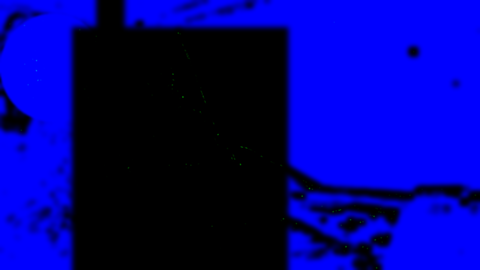
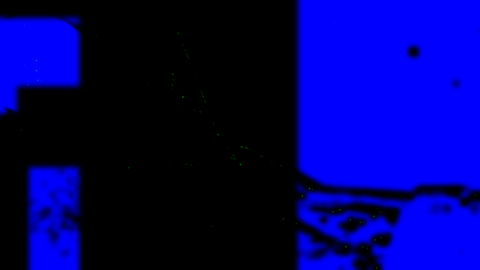
Živé obrázky: Lebec – vír jen v okně, sedadlo pevné; Lorris – radar jen na displeji
Claude-Session: https://claude.ai/code/session_019nmCp42rAmbc4M4RKrxxCM

Changed region(s): [[0.0, 0.0, 0.2188, 1.0], [0.25, 0.0, 0.6562, 1.0]]

diff --git a/assets/zive/seznam.js b/assets/zive/seznam.js
@@ -1,2 +1,2 @@
 /* Vytvořeno nastroje/zive_masky.py – neupravovat ručně. */
-window.ZIVE_SEZNAM={"/assets/kapitoly/dite-z-marsu.webp":{"s":"dite-z-marsu","m":"/assets/zive/dite-z-marsu-maska.png"},"/assets/kapitoly/goodman.webp":{"s":"goodman","m":"/assets/zive/goodman-maska.png"},"/assets/kapitoly/pad-calibanu.webp":{"s":"pad-calibanu","m":"/assets/zive/pad-calibanu-maska.png"},"/assets/kapitoly/ztracena-letka.webp":{"s":"ztracena-letka","m":"/assets/zive/ztracena-letka-maska.png"},"/assets/osoby/abeni-okon.webp":{"s":"osoba","m":"/assets/zive/osoby/abeni-okon.png","k":{"kam":[0.27,0.2,0.07,34],"ef":[[4,0.72,0.12,0.84,0.62,1.4,0.3,0,1.0,0.75,0.4],[2,0.3,0.0,1.0,0.35,0.004,0.0,0.004,0,0,0],[3,0.55,0.73,0.88,0.84,0.004,0,0,0,0,0]],"cast":[["para",0.4,0.33,0.8],["para",0.59,0.45,0.6],["para",0.69,0.45,0.6],["para",0.94,0.43,0.7],["prach",0.4,0.1,1,0.8,20]]}},"/assets/osoby/adelaide-lorris.webp":{"s":"osoba","m":"/assets/zive/osoby/adelaide-lorris.png","k":{"kam":[0.3,0.25,0.08,32],"ef":[[6,0.63,0.42,0.9,0.8,0.5,0,0,0.55,0.75,1.0],[4,0.8,0.13,0.9,0.27,0.6,0.45,0,1.0,0.95,0.85],[4,0.0,0.1,0.06,0.2,1.4,0.8,1,1.0,0.15,0.1]],"cast":[]}},"/assets/osoby/ai-se-choan.webp":{"s":"osoba","m":"/assets/zive/osoby/ai-se-choan.png","k":{"kam":[0.3,0.3,0.08,34],"ef":[[1,0.68,0.02,1.0,0.6,0.35,0,0,0,0,0],[4,0.8,0.38,0.92,0.52,0.8,0.35,0,1.0,0.95,0.85],[4,0.65,0.7,1.0,1.0,1.3,0.12,0,1.0,0.75,0.4]],"cast":[["prach",0.4,0.1,1,0.9,25]]}},"/assets/osoby/antoine-lebec.webp":{"s":"osoba","m":"/assets/zive/osoby/antoine-lebec.png","k":{"kam":[0.33,0.3,0.08,34],"ef":[[1,0.0,0.05,0.22,0.45,0.4,0,0,0,0,0],[4,0.82,0.13,0.9,0.24,0.6,0.45,0,1.0,0.75,0.4]],"cast":[["prach",0.4,0.1,1,0.7,15]]}},"/assets/osoby/ashley-ghan.webp":{"s":"osoba","m":"/assets/zive/osoby/ashley-ghan.png","k":{"kam":[0.35,0.2,0.07,34],"ef":[[4,0.0,0.28,0.09,0.44,3.0,0.3,0,1.0,0.75,0.4],[2,0.75,0.07,0.93,0.4,0.002,0.0,0.003,0,0,0]],"cast":[["prach",0.0,0.2,0.7,0.9,35]]}},"/assets/osoby/astrid-messer-vii.webp":{"s":"osoba","m":"/assets/zive/osoby/astrid-messer-vii.png","k":{"kam":[0.35,0.2,0.07,32],"ef":[[4,0.45,0.0,1.0,0.55,0.8,0.25,0,1.0,0.75,0.4],[4,0.44,0.5,0.56,0.62,3.5,0.3,0,1.0,0.75,0.4],[4,0.6,0.55,0.7,0.66,3.5,0.3,0,1.0,0.75,0.4]],"cast":[["jiskry",0.5,0.53],["jiskry",0.65,0.58]]}},"/assets/osoby/chule-se-rua.webp":{"s":"osoba","m":"/assets/zive/osoby/chule-se-rua.png","k":{"kam":[0.3,0.25,0.07,36],"ef":[[3,0.55,0.1,1.0,0.5,0.004,0,0,0,0,0],[2,0.0,0.0,0.3,0.55,0.0,0.0,0.004,0,0,0],[5,0.4,0.0,1.0,0.6,0.12,0.4,0,0,0,0]],"cast":[["lupeny",0.0,-0.05,1,0.3,26],["prach",0.3,0.1,1,0.8,20]]}},"/assets/osoby/corath-thal.webp":{"s":"osoba","m":"/assets/zive/osoby/corath-thal.png","k":{"kam":[0.3,0.3,0.08,34],"ef":[[2,0.48,0.32,1.0,0.8,0.006,0.0,0.006,0,0,0],[4,0.85,0.25,0.98,0.42,0.6,0.35,0,1.0,0.95,0.85],[4,0.48,0.62,0.62,0.72,2.5,0.25,0,1.0,0.75,0.4]],"cast":[["lode",0.35,0.2,1.05,0.08,6,0.9,1],["lode",1.05,0.55,0.5,0.45,4,0.7,1]]}},"/assets/osoby/corbyn-salehi.webp":{"s":"osoba","m":"/assets/zive/osoby/corbyn-salehi.png","k":{"kam":[0.25,0.25,0.08,32],"ef":[[2,0.35,0.12,1.0,0.98,0.006,-0.002,0.008,0,0,0],[4,0.55,0.0,0.66,0.2,1.5,0.3,0,1.0,0.55,0.2],[4,0.6,0.4,1.0,0.9,1.0,0.12,0,1.0,0.45,0.15]],"cast":[["lode",1.05,0.7,0.85,1.05,5,1.4,0],["jiskry",0.62,0.15]]}},"/assets/osoby/corsen-messer-v.webp":{"s":"osoba","m":"/assets/zive/osoby/corsen-messer-v.png","k":{"kam":[0.4,0.3,0.08,36],"ef":[[2,0.62,0.05,1.0,0.62,0.004,0.0,0.004,0,0,0],[4,0.03,0.32,0.14,0.45,3.0,0.3,0,1.0,0.75,0.4],[3,0.38,0.74,1.0,1.0,0.004,0,0,0,0,0]],"cast":[["jiskry",0.08,0.38],["lode",0.5,0.12,1.05,0.2,4,0.7,1]]}},"/assets/osoby/deacon-messer-ii.webp":{"s":"osoba","m":"/assets/zive/osoby/deacon-messer-ii.png","k":{"kam":[0.47,0.2,0.07,34],"ef":[[4,0.0,0.62,1.0,1.0,0.9,0.25,0,0.55,0.75,1.0],[4,0.0,0.0,0.06,0.2,3.0,0.3,0,1.0,0.75,0.4],[4,0.96,0.15,1.0,0.3,3.0,0.3,0,1.0,0.75,0.4]],"cast":[["lode",0.6,0.08,0.95,0.12,3,0.6,1],["prach",0.2,0.1,0.9,0.7,15]]}},"/assets/osoby/ellroy-cass.webp":{"s":"osoba","m":"/assets/zive/osoby/ellroy-cass.png","k":{"kam":[0.45,0.25,0.07,30],"ef":[[5,0.0,0.0,1.0,0.65,0.35,1.2,0,0,0,0],[4,0.0,0.7,1.0,0.9,2.2,0.12,0,0.55,0.75,1.0]],"cast":[["bubliny",0.0,0.0,1.0,0.75,10,7],["prach",0.1,0.0,0.9,0.7,25]]}},"/assets/osoby/erin-toi.webp":{"s":"osoba","m":"/assets/zive/osoby/erin-toi.png","k":{"kam":[0.2,0.18,0.07,36],"ef":[[5,0.28,0.0,0.95,0.5,0.25,0.5,0,0,0,0],[2,0.42,0.02,0.92,0.35,0.004,0.0,0.003,0,0,0]],"cast":[["prach",0.3,0.05,0.92,0.6,40]]}},"/assets/osoby/ernst-bishop.webp":{"s":"osoba","m":"/assets/zive/osoby/ernst-bishop.png","k":{"kam":[0.5,0.3,0.06,36],"ef":[[4,0.72,0.1,0.98,0.32,0.8,0.3,0,0.55,0.75,1.0],[4,0.14,0.8,0.2,0.9,1.5,0.9,1,1.0,0.15,0.1]],"cast":[["prach",0.0,0.0,1,1,15]]}},"/assets/osoby/fiona-messer.webp":{"s":"osoba","m":"/assets/zive/osoby/fiona-messer.png","k":{"kam":[0.35,0.2,0.07,34],"ef":[[4,0.05,0.32,0.11,0.41,4.0,0.4,0,1.0,0.75,0.4],[2,0.78,0.0,1.0,0.45,0.002,-0.006,0.008,0,0,0],[3,0.65,0.75,1.0,1.0,0.004,0,0,0,0,0]],"cast":[["para",0.08,0.34,0.4],["lode",0.62,0.1,0.86,0.13,3,0.6,1],["jiskry",0.85,0.3]]}},"/assets/osoby/galor-messer-ix.webp":{"s":"osoba","m":"/assets/zive/osoby/galor-messer-ix.png","k":{"kam":[0.33,0.25,0.07,36],"ef":[[2,0.65,0.0,0.95,0.35,0.004,0.0,0.004,0,0,0],[3,0.62,0.75,1.0,1.0,0.003,0,0,0,0,0],[4,0.0,0.2,0.05,0.32,3.0,0.3,0,1.0,0.75,0.4]],"cast":[["prach",0.5,0.1,1,0.9,30]]}},"/assets/osoby/illyana-messer-vi.webp":{"s":"osoba","m":"/assets/zive/osoby/illyana-messer-vi.png","k":{"kam":[0.32,0.15,0.08,34],"ef":[[2,0.5,0.0,0.9,0.32,0.005,0.001,0.008,0,0,0],[4,0.02,0.5,0.14,0.6,3.0,0.25,0,1.0,0.75,0.4]],"cast":[["lode",0.45,0.3,1.05,0.22,4,0.7,1],["jiskry",0.08,0.55]]}},"/assets/osoby/ivar-messer-i.webp":{"s":"osoba","m":"/assets/zive/osoby/ivar-messer-i.png","k":{"kam":[0.4,0.3,0.08,34],"ef":[[2,0.58,0.48,1.0,0.98,0.005,0.0,0.006,0,0,0],[4,0.9,0.48,1.05,0.68,0.5,0.45,0,1.0,0.95,0.85]],"cast":[["lode",0.5,0.38,0.98,0.2,5,0.8,1]]}},"/assets/osoby/jax-mccleary.webp":{"s":"osoba","m":"/assets/zive/osoby/jax-mccleary.png","k":{"kam":[0.6,0.25,0.06,34],"ef":[[4,0.0,0.55,0.55,0.68,1.0,0.2,0,0.55,0.75,1.0],[4,0.6,0.45,0.95,0.95,0.7,0.12,0,0.55,0.75,1.0]],"cast":[["prach",0.0,0.0,1,1,15]]}},"/assets/osoby/jerry.webp":{"s":"osoba","m":"/assets/zive/osoby/jerry.png","k":{"kam":[0.3,0.2,0.08,34],"ef":[[2,0.78,0.45,1.0,0.78,0.004,0.0,0.005,0,0,0],[4,0.45,0.85,0.85,1.0,2.0,0.2,0,1.0,0.75,0.4]],"cast":[["lode",0.4,0.3,1.05,0.1,5,0.7,1]]}},"/assets/osoby/jimmy.webp":{"s":"osoba","m":"/assets/zive/osoby/jimmy.png","k":{"kam":[0.5,0.3,0.06,32],"ef":[[4,0.93,0.72,1.0,0.84,3.5,0.35,0,1.0,0.75,0.4],[4,0.02,0.45,0.14,0.58,1.0,0.25,0,1.0,0.75,0.4],[5,0.38,0.1,0.6,0.45,0.25,0.8,0,0,0,0]],"cast":[["prach",0.1,0.0,1,0.8,20]]}},"/assets/osoby/kellar-lench.webp":{"s":"osoba","m":"/assets/zive/osoby/kellar-lench.png","k":{"kam":[0.37,0.25,0.08,32],"ef":[[1,0.6,0.02,1.0,0.48,0.35,0,0,0,0,0],[4,0.45,0.08,0.57,0.25,0.6,0.35,0,1.0,0.95,0.85],[4,0.4,0.47,0.85,0.72,1.5,0.2,0,0.55,0.75,1.0]],"cast":[["prach",0.0,0.1,0.6,0.9,20]]}},"/assets/osoby/kelos-costigan.webp":{"s":"osoba","m":"/assets/zive/osoby/kelos-costigan.png","k":{"kam":[0.38,0.15,0.08,36],"ef":[[2,0.5,0.0,1.0,0.25,0.006,0.0,0.005,0,0,0],[3,0.68,0.22,1.0,0.45,0.004,0,0,0,0,0],[4,0.14,0.64,0.24,0.72,1.2,0.25,0,0.55,0.75,1.0]],"cast":[["lode",0.48,0.12,1.05,0.18,7,0.8,0],["lode",1.05,0.3,0.5,0.25,5,0.7,1]]}},"/assets/osoby/ki-jotal.webp":{"s":"osoba","m":"/assets/zive/osoby/ki-jotal.png","k":{"kam":[0.38,0.15,0.08,34],"ef":[[2,0.5,0.0,0.92,0.42,0.005,0.0,0.005,0,0,0],[4,0.35,0.8,0.95,1.0,1.2,0.25,0,0.55,0.75,1.0]],"cast":[["lode",0.48,0.3,0.95,0.2,5,0.8,0],["prach",0.35,0.75,0.95,1,15]]}},"/assets/osoby/kofi-bafeuma.webp":{"s":"osoba","m":"/assets/zive/osoby/kofi-bafeuma.png","k":{"kam":[0.28,0.25,0.08,34],"ef":[[1,0.62,0.0,1.02,0.52,0.25,0,0,0,0,0],[4,0.66,0.05,0.98,0.5,0.7,0.25,0,1.0,0.75,0.4],[4,0.0,0.05,0.12,0.3,2.0,0.2,0,1.0,0.75,0.4]],"cast":[["prach",0.3,0.1,1,0.8,25]]}},"/assets/osoby/laylani-addison.webp":{"s":"osoba","m":"/assets/zive/osoby/laylani-addison.png","k":{"kam":[0.35,0.15,0.07,34],"ef":[[4,0.55,0.0,1.0,0.5,0.7,0.2,0,0.55,0.75,1.0],[4,0.82,0.35,0.95,0.5,2.0,0.25,0,1.0,0.75,0.4],[6,0.62,0.05,0.98,0.45,0.35,0,0,0.55,0.75,1.0]],"cast":[["prach",0.5,0.3,1,0.9,20]]}},"/assets/osoby/lii-se-kre.webp":{"s":"osoba","m":"/assets/zive/osoby/lii-se-kre.png","k":{"kam":[0.17,0.15,0.07,34],"ef":[[4,0.38,0.32,1.0,0.48,0.6,0.25,0,0.55,0.75,1.0],[2,0.4,0.42,1.0,0.9,0.004,0.0,0.004,0,0,0]],"cast":[["lode",0.3,0.25,1.05,0.35,10,0.8,1],["lode",1.05,0.1,0.45,0.05,6,0.6,1]]}},"/assets/osoby/linton-messer-xi.webp":{"s":"osoba","m":"/assets/zive/osoby/linton-messer-xi.png","k":{"kam":[0.55,0.15,0.07,34],"ef":[[4,0.0,0.55,0.5,0.65,1.5,0.2,0,1.0,0.75,0.4],[3,0.0,0.8,1.0,1.0,0.003,0,0,0,0,0]],"cast":[["lode",0.0,0.15,0.5,0.1,4,0.6,1],["prach",0.4,0.1,1,0.9,20]]}},"/assets/osoby/livia-messer-iii.webp":{"s":"osoba","m":"/assets/zive/osoby/livia-messer-iii.png","k":{"kam":[0.47,0.2,0.07,34],"ef":[[4,0.0,0.0,0.42,0.75,0.9,0.2,0,0.55,0.75,1.0],[2,0.65,0.0,0.95,0.45,0.004,0.0,0.004,0,0,0]],"cast":[["lode",0.7,0.32,0.92,0.3,3,0.6,0],["prach",0.4,0.0,1,0.8,15]]}},"/assets/osoby/magnus-tobin.webp":{"s":"osoba","m":"/assets/zive/osoby/magnus-tobin.png","k":{"kam":[0.42,0.15,0.07,34],"ef":[[4,0.47,0.13,0.61,0.31,1.3,0.35,0,0.55,0.75,1.0],[2,0.62,0.0,1.0,0.25,0.004,0.0,0.003,0,0,0]],"cast":[["lode",0.68,0.1,1.05,0.15,4,0.7,1],["prach",0.0,0.0,1,0.8,25]]}},"/assets/osoby/marshall-leon.webp":{"s":"osoba","m":"/assets/zive/osoby/marshall-leon.png","k":{"kam":[0.35,0.2,0.07,34],"ef":[[4,0.84,0.52,0.98,0.74,1.6,0.45,0,0.7,0.85,1.0],[4,0.0,0.1,0.14,0.6,0.4,0.12,0,1.0,0.95,0.85]],"cast":[["prach",0.4,0.0,1,0.9,35]]}},"/assets/osoby/michelle-saleno.webp":{"s":"osoba","m":"/assets/zive/osoby/michelle-saleno.png","k":{"kam":[0.3,0.12,0.08,34],"ef":[[4,0.86,0.2,1.0,0.4,0.5,0.4,0,1.0,0.75,0.4],[2,0.62,0.0,1.0,0.3,0.006,0.0,0.004,0,0,0],[3,0.0,0.66,1.0,1.0,0.005,0,0,0,0,0]],"cast":[["prach",0.3,0.2,1,0.9,25],["lode",0.65,0.12,1.05,0.2,2,0.7,0]]}},"/assets/osoby/ne-se-ruoth.webp":{"s":"osoba","m":"/assets/zive/osoby/ne-se-ruoth.png","k":{"kam":[0.4,0.15,0.08,34],"ef":[[2,0.55,0.0,1.0,0.42,0.004,0.001,0.006,0,0,0],[4,0.48,0.5,0.72,0.62,0.5,0.4,0,1.0,0.75,0.4]],"cast":[["prach",0.3,0.5,1,0.95,30]]}},"/assets/osoby/neal-socolovich.webp":{"s":"osoba","m":"/assets/zive/osoby/neal-socolovich.png","k":{"kam":[0.38,0.15,0.07,34],"ef":[[4,0.85,0.32,1.0,0.52,0.5,0.45,0,1.0,0.75,0.4],[7,0.68,0.4,1.0,0.72,0.003,0,0,0,0,0],[5,0.35,0.05,0.95,0.8,0.15,0.4,0,0,0,0],[4,0.0,0.32,0.07,0.48,3.0,0.3,0,1.0,0.75,0.4]],"cast":[["prach",0.35,0.05,0.95,0.8,40]]}},"/assets/osoby/nick-croshaw.webp":{"s":"osoba","m":"/assets/zive/osoby/nick-croshaw.png","k":{"kam":[0.25,0.2,0.08,34],"ef":[[1,0.66,0.0,1.04,0.62,0.4,0,0,0,0,0],[2,0.24,0.1,0.5,0.52,0.004,0.0,0.004,0,0,0],[4,0.55,0.7,1.0,1.0,2.0,0.2,0,1.0,0.75,0.4]],"cast":[["prach",0.0,0.0,0.6,1,15]]}},"/assets/osoby/paul-barlow.webp":{"s":"osoba","m":"/assets/zive/osoby/paul-barlow.png","k":{"kam":[0.35,0.2,0.08,32],"ef":[[2,0.55,0.0,1.0,0.55,0.003,-0.008,0.01,0,0,0],[3,0.55,0.74,1.0,1.0,0.005,0,0,0,0,0],[4,0.1,0.06,0.17,0.2,3.0,0.3,0,1.0,0.75,0.4]],"cast":[["popel",60],["jiskry",0.82,0.5],["jiskry",0.7,0.62]]}},"/assets/osoby/scott-childress.webp":{"s":"osoba","m":"/assets/zive/osoby/scott-childress.png","k":{"kam":[0.3,0.15,0.07,34],"ef":[[4,0.52,0.12,0.84,0.58,1.2,0.35,0,1.0,0.75,0.4],[3,0.3,0.76,1.0,1.0,0.004,0,0,0,0,0],[2,0.0,0.2,0.15,0.75,0.004,0.0,0.003,0,0,0]],"cast":[["jiskry",0.68,0.35],["prach",0.3,0.1,1,0.8,25]]}},"/assets/osoby/seang-se-rua.webp":{"s":"osoba","m":"/assets/zive/osoby/seang-se-rua.png","k":{"kam":[0.48,0.15,0.07,34],"ef":[[4,0.0,0.28,0.18,0.5,0.5,0.45,0,1.0,0.75,0.4],[5,0.0,0.0,0.7,0.7,0.2,0.4,0,0,0,0],[3,0.0,0.65,1.0,1.0,0.005,0,0,0,0,0]],"cast":[["prach",0.0,0.1,0.7,0.8,40]]}},"/assets/osoby/selma-tontil.webp":{"s":"osoba","m":"/assets/zive/osoby/selma-tontil.png","k":{"kam":[0.45,0.18,0.07,34],"ef":[[4,0.0,0.25,0.1,0.4,2.0,0.25,0,1.0,0.75,0.4],[3,0.65,0.32,1.0,0.5,0.003,0,0,0,0,0]],"cast":[["lode",0.65,0.12,1.05,0.05,3,0.9,0],["lode",1.05,0.3,0.66,0.32,3,0.5,0]]}},"/assets/osoby/suj-kossi.webp":{"s":"osoba","m":"/assets/zive/osoby/suj-kossi.png","k":{"kam":[0.35,0.15,0.07,34],"ef":[[5,0.5,0.0,1.0,0.58,0.25,0.4,0,0,0,0]],"cast":[["prach",0.45,0.0,1,0.7,45]]}},"/assets/osoby/sylvie-randall.webp":{"s":"osoba","m":"/assets/zive/osoby/sylvie-randall.png","k":{"kam":[0.38,0.25,0.07,32],"ef":[[4,0.08,0.02,0.19,0.14,1.6,0.9,1,1.0,0.15,0.1],[4,0.14,0.22,0.22,0.32,1.6,0.7,1,1.0,0.15,0.1],[2,0.63,0.18,0.88,0.7,0.004,0.0,0.004,0,0,0]],"cast":[["lode",0.6,0.3,1.05,0.55,8,0.7,1]]}},"/assets/osoby/terrence-akari.webp":{"s":"osoba","m":"/assets/zive/osoby/terrence-akari.png","k":{"kam":[0.3,0.2,0.08,34],"ef":[[4,0.76,0.12,0.88,0.28,0.6,0.5,0,1.0,0.95,0.85],[2,0.38,0.0,0.85,0.45,0.004,0.001,0.006,0,0,0],[4,0.5,0.55,1.0,0.75,2.0,0.15,0,1.0,0.75,0.4]],"cast":[["lode",0.4,0.4,1.05,0.32,2,0.6,1]]}},"/assets/osoby/theresa-branaugh.webp":{"s":"osoba","m":"/assets/zive/osoby/theresa-branaugh.png","k":{"kam":[0.38,0.25,0.08,34],"ef":[[4,0.24,0.34,0.31,0.43,2.0,0.4,0,1.0,0.95,0.85],[4,0.0,0.0,0.2,0.8,0.8,0.15,0,1.0,0.75,0.4],[2,0.45,0.0,1.0,0.3,0.004,0.0,0.004,0,0,0],[7,0.55,0.4,1.0,0.62,0.0025,0,0,0,0,0]],"cast":[["prach",0.4,0.3,1,0.95,30]]}},"/assets/osoby/toshi-aaron.webp":{"s":"osoba","m":"/assets/zive/osoby/toshi-aaron.png","k":{"kam":[0.4,0.3,0.08,32],"ef":[[1,0.72,0.0,0.88,0.26,0.6,0,0,0,0,0],[6,0.6,0.45,0.82,0.8,0.9,0,0,0.4,1.0,0.7],[4,0.4,0.55,1.0,1.0,2.5,0.15,0,1.0,0.75,0.4]],"cast":[["lode",0.95,0.18,0.7,0.3,6,1.3,0]]}},"/assets/osoby/tueng-se-kre.webp":{"s":"osoba","m":"/assets/zive/osoby/tueng-se-kre.png","k":{"kam":[0.35,0.12,0.07,34],"ef":[[4,0.74,0.34,0.9,0.5,0.5,0.4,0,1.0,0.75,0.4],[2,0.55,0.0,1.0,0.4,0.005,0.0,0.005,0,0,0],[3,0.55,0.74,1.0,1.0,0.004,0,0,0,0,0]],"cast":[["lode",0.55,0.25,1.05,0.2,6,0.7,0]]}},"/assets/osoby/ulysses-messer-x.webp":{"s":"osoba","m":"/assets/zive/osoby/ulysses-messer-x.png","k":{"kam":[0.27,0.2,0.07,34],"ef":[[2,0.45,0.0,1.0,0.25,0.004,0.0,0.004,0,0,0],[4,0.04,0.37,0.17,0.5,1.4,0.3,0,0.55,0.75,1.0],[4,0.58,0.12,1.0,0.55,1.1,0.12,0,0.55,0.75,1.0]],"cast":[["lode",0.35,0.12,1.05,0.08,6,0.7,1],["lode",1.05,0.45,0.45,0.5,4,0.6,1],["prach",0.4,0.1,1,0.9,25]]}},"/assets/osoby/vernon-tar.webp":{"s":"osoba","m":"/assets/zive/osoby/vernon-tar.png","k":{"kam":[0.3,0.25,0.08,34],"ef":[[4,0.76,0.12,0.88,0.28,0.6,0.5,0,1.0,0.95,0.85],[2,0.42,0.0,1.0,0.45,0.004,0.001,0.006,0,0,0],[4,0.3,0.6,0.75,0.85,2.2,0.2,0,1.0,0.75,0.4]],"cast":[["lode",0.45,0.1,1.05,0.2,3,0.6,1]]}},"/assets/osoby/yaha-se-xyo.webp":{"s":"osoba","m":"/assets/zive/osoby/yaha-se-xyo.png","k":{"kam":[0.35,0.25,0.07,34],"ef":[[4,0.47,0.13,0.61,0.42,1.2,0.3,0,1.0,0.75,0.4],[2,0.82,0.35,1.0,0.62,0.002,0.0,0.004,0,0,0],[5,0.6,0.0,1.0,0.7,0.15,0.4,0,0,0,0]],"cast":[["bubliny",0.49,0.22,0.59,0.38,12,1.2],["prach",0.3,0.0,1,0.8,25]]}}};
+window.ZIVE_SEZNAM={"/assets/kapitoly/dite-z-marsu.webp":{"s":"dite-z-marsu","m":"/assets/zive/dite-z-marsu-maska.png"},"/assets/kapitoly/goodman.webp":{"s":"goodman","m":"/assets/zive/goodman-maska.png"},"/assets/kapitoly/pad-calibanu.webp":{"s":"pad-calibanu","m":"/assets/zive/pad-calibanu-maska.png"},"/assets/kapitoly/ztracena-letka.webp":{"s":"ztracena-letka","m":"/assets/zive/ztracena-letka-maska.png"},"/assets/osoby/abeni-okon.webp":{"s":"osoba","m":"/assets/zive/osoby/abeni-okon.png","k":{"kam":[0.27,0.2,0.07,34],"ef":[[4,0.72,0.12,0.84,0.62,1.4,0.3,0,1.0,0.75,0.4],[2,0.3,0.0,1.0,0.35,0.004,0.0,0.004,0,0,0],[3,0.55,0.73,0.88,0.84,0.004,0,0,0,0,0]],"cast":[["para",0.4,0.33,0.8],["para",0.59,0.45,0.6],["para",0.69,0.45,0.6],["para",0.94,0.43,0.7],["prach",0.4,0.1,1,0.8,20]]}},"/assets/osoby/adelaide-lorris.webp":{"s":"osoba","m":"/assets/zive/osoby/adelaide-lorris.png","k":{"kam":[0.3,0.25,0.08,32],"ef":[[6,0.665,0.47,0.83,0.73,0.5,0,0,0.55,0.75,1.0],[4,0.8,0.13,0.9,0.27,0.6,0.45,0,1.0,0.95,0.85],[4,0.0,0.1,0.06,0.2,1.4,0.8,1,1.0,0.15,0.1]],"cast":[]}},"/assets/osoby/ai-se-choan.webp":{"s":"osoba","m":"/assets/zive/osoby/ai-se-choan.png","k":{"kam":[0.3,0.3,0.08,34],"ef":[[1,0.68,0.02,1.0,0.6,0.35,0,0,0,0,0],[4,0.8,0.38,0.92,0.52,0.8,0.35,0,1.0,0.95,0.85],[4,0.65,0.7,1.0,1.0,1.3,0.12,0,1.0,0.75,0.4]],"cast":[["prach",0.4,0.1,1,0.9,25]]}},"/assets/osoby/antoine-lebec.webp":{"s":"osoba","m":"/assets/zive/osoby/antoine-lebec.png","k":{"kam":[0.33,0.3,0.08,34],"ef":[[1,-0.05,0.05,0.19,0.42,0.4,0,0,0,0,0],[4,0.82,0.13,0.9,0.24,0.6,0.45,0,1.0,0.75,0.4]],"cast":[["prach",0.4,0.1,1,0.7,15]]}},"/assets/osoby/ashley-ghan.webp":{"s":"osoba","m":"/assets/zive/osoby/ashley-ghan.png","k":{"kam":[0.35,0.2,0.07,34],"ef":[[4,0.0,0.28,0.09,0.44,3.0,0.3,0,1.0,0.75,0.4],[2,0.75,0.07,0.93,0.4,0.002,0.0,0.003,0,0,0]],"cast":[["prach",0.0,0.2,0.7,0.9,35]]}},"/assets/osoby/astrid-messer-vii.webp":{"s":"osoba","m":"/assets/zive/osoby/astrid-messer-vii.png","k":{"kam":[0.35,0.2,0.07,32],"ef":[[4,0.45,0.0,1.0,0.55,0.8,0.25,0,1.0,0.75,0.4],[4,0.44,0.5,0.56,0.62,3.5,0.3,0,1.0,0.75,0.4],[4,0.6,0.55,0.7,0.66,3.5,0.3,0,1.0,0.75,0.4]],"cast":[["jiskry",0.5,0.53],["jiskry",0.65,0.58]]}},"/assets/osoby/chule-se-rua.webp":{"s":"osoba","m":"/assets/zive/osoby/chule-se-rua.png","k":{"kam":[0.3,0.25,0.07,36],"ef":[[3,0.55,0.1,1.0,0.5,0.004,0,0,0,0,0],[2,0.0,0.0,0.3,0.55,0.0,0.0,0.004,0,0,0],[5,0.4,0.0,1.0,0.6,0.12,0.4,0,0,0,0]],"cast":[["lupeny",0.0,-0.05,1,0.3,26],["prach",0.3,0.1,1,0.8,20]]}},"/assets/osoby/corath-thal.webp":{"s":"osoba","m":"/assets/zive/osoby/corath-thal.png","k":{"kam":[0.3,0.3,0.08,34],"ef":[[2,0.48,0.32,1.0,0.8,0.006,0.0,0.006,0,0,0],[4,0.85,0.25,0.98,0.42,0.6,0.35,0,1.0,0.95,0.85],[4,0.48,0.62,0.62,0.72,2.5,0.25,0,1.0,0.75,0.4]],"cast":[["lode",0.35,0.2,1.05,0.08,6,0.9,1],["lode",1.05,0.55,0.5,0.45,4,0.7,1]]}},"/assets/osoby/corbyn-salehi.webp":{"s":"osoba","m":"/assets/zive/osoby/corbyn-salehi.png","k":{"kam":[0.25,0.25,0.08,32],"ef":[[2,0.35,0.12,1.0,0.98,0.006,-0.002,0.008,0,0,0],[4,0.55,0.0,0.66,0.2,1.5,0.3,0,1.0,0.55,0.2],[4,0.6,0.4,1.0,0.9,1.0,0.12,0,1.0,0.45,0.15]],"cast":[["lode",1.05,0.7,0.85,1.05,5,1.4,0],["jiskry",0.62,0.15]]}},"/assets/osoby/corsen-messer-v.webp":{"s":"osoba","m":"/assets/zive/osoby/corsen-messer-v.png","k":{"kam":[0.4,0.3,0.08,36],"ef":[[2,0.62,0.05,1.0,0.62,0.004,0.0,0.004,0,0,0],[4,0.03,0.32,0.14,0.45,3.0,0.3,0,1.0,0.75,0.4],[3,0.38,0.74,1.0,1.0,0.004,0,0,0,0,0]],"cast":[["jiskry",0.08,0.38],["lode",0.5,0.12,1.05,0.2,4,0.7,1]]}},"/assets/osoby/deacon-messer-ii.webp":{"s":"osoba","m":"/assets/zive/osoby/deacon-messer-ii.png","k":{"kam":[0.47,0.2,0.07,34],"ef":[[4,0.0,0.62,1.0,1.0,0.9,0.25,0,0.55,0.75,1.0],[4,0.0,0.0,0.06,0.2,3.0,0.3,0,1.0,0.75,0.4],[4,0.96,0.15,1.0,0.3,3.0,0.3,0,1.0,0.75,0.4]],"cast":[["lode",0.6,0.08,0.95,0.12,3,0.6,1],["prach",0.2,0.1,0.9,0.7,15]]}},"/assets/osoby/ellroy-cass.webp":{"s":"osoba","m":"/assets/zive/osoby/ellroy-cass.png","k":{"kam":[0.45,0.25,0.07,30],"ef":[[5,0.0,0.0,1.0,0.65,0.35,1.2,0,0,0,0],[4,0.0,0.7,1.0,0.9,2.2,0.12,0,0.55,0.75,1.0]],"cast":[["bubliny",0.0,0.0,1.0,0.75,10,7],["prach",0.1,0.0,0.9,0.7,25]]}},"/assets/osoby/erin-toi.webp":{"s":"osoba","m":"/assets/zive/osoby/erin-toi.png","k":{"kam":[0.2,0.18,0.07,36],"ef":[[5,0.28,0.0,0.95,0.5,0.25,0.5,0,0,0,0],[2,0.42,0.02,0.92,0.35,0.004,0.0,0.003,0,0,0]],"cast":[["prach",0.3,0.05,0.92,0.6,40]]}},"/assets/osoby/ernst-bishop.webp":{"s":"osoba","m":"/assets/zive/osoby/ernst-bishop.png","k":{"kam":[0.5,0.3,0.06,36],"ef":[[4,0.72,0.1,0.98,0.32,0.8,0.3,0,0.55,0.75,1.0],[4,0.14,0.8,0.2,0.9,1.5,0.9,1,1.0,0.15,0.1]],"cast":[["prach",0.0,0.0,1,1,15]]}},"/assets/osoby/fiona-messer.webp":{"s":"osoba","m":"/assets/zive/osoby/fiona-messer.png","k":{"kam":[0.35,0.2,0.07,34],"ef":[[4,0.05,0.32,0.11,0.41,4.0,0.4,0,1.0,0.75,0.4],[2,0.78,0.0,1.0,0.45,0.002,-0.006,0.008,0,0,0],[3,0.65,0.75,1.0,1.0,0.004,0,0,0,0,0]],"cast":[["para",0.08,0.34,0.4],["lode",0.62,0.1,0.86,0.13,3,0.6,1],["jiskry",0.85,0.3]]}},"/assets/osoby/galor-messer-ix.webp":{"s":"osoba","m":"/assets/zive/osoby/galor-messer-ix.png","k":{"kam":[0.33,0.25,0.07,36],"ef":[[2,0.65,0.0,0.95,0.35,0.004,0.0,0.004,0,0,0],[3,0.62,0.75,1.0,1.0,0.003,0,0,0,0,0],[4,0.0,0.2,0.05,0.32,3.0,0.3,0,1.0,0.75,0.4]],"cast":[["prach",0.5,0.1,1,0.9,30]]}},"/assets/osoby/illyana-messer-vi.webp":{"s":"osoba","m":"/assets/zive/osoby/illyana-messer-vi.png","k":{"kam":[0.32,0.15,0.08,34],"ef":[[2,0.5,0.0,0.9,0.32,0.005,0.001,0.008,0,0,0],[4,0.02,0.5,0.14,0.6,3.0,0.25,0,1.0,0.75,0.4]],"cast":[["lode",0.45,0.3,1.05,0.22,4,0.7,1],["jiskry",0.08,0.55]]}},"/assets/osoby/ivar-messer-i.webp":{"s":"osoba","m":"/assets/zive/osoby/ivar-messer-i.png","k":{"kam":[0.4,0.3,0.08,34],"ef":[[2,0.58,0.48,1.0,0.98,0.005,0.0,0.006,0,0,0],[4,0.9,0.48,1.05,0.68,0.5,0.45,0,1.0,0.95,0.85]],"cast":[["lode",0.5,0.38,0.98,0.2,5,0.8,1]]}},"/assets/osoby/jax-mccleary.webp":{"s":"osoba","m":"/assets/zive/osoby/jax-mccleary.png","k":{"kam":[0.6,0.25,0.06,34],"ef":[[4,0.0,0.55,0.55,0.68,1.0,0.2,0,0.55,0.75,1.0],[4,0.6,0.45,0.95,0.95,0.7,0.12,0,0.55,0.75,1.0]],"cast":[["prach",0.0,0.0,1,1,15]]}},"/assets/osoby/jerry.webp":{"s":"osoba","m":"/assets/zive/osoby/jerry.png","k":{"kam":[0.3,0.2,0.08,34],"ef":[[2,0.78,0.45,1.0,0.78,0.004,0.0,0.005,0,0,0],[4,0.45,0.85,0.85,1.0,2.0,0.2,0,1.0,0.75,0.4]],"cast":[["lode",0.4,0.3,1.05,0.1,5,0.7,1]]}},"/assets/osoby/jimmy.webp":{"s":"osoba","m":"/assets/zive/osoby/jimmy.png","k":{"kam":[0.5,0.3,0.06,32],"ef":[[4,0.93,0.72,1.0,0.84,3.5,0.35,0,1.0,0.75,0.4],[4,0.02,0.45,0.14,0.58,1.0,0.25,0,1.0,0.75,0.4],[5,0.38,0.1,0.6,0.45,0.25,0.8,0,0,0,0]],"cast":[["prach",0.1,0.0,1,0.8,20]]}},"/assets/osoby/kellar-lench.webp":{"s":"osoba","m":"/assets/zive/osoby/kellar-lench.png","k":{"kam":[0.37,0.25,0.08,32],"ef":[[1,0.6,0.02,1.0,0.48,0.35,0,0,0,0,0],[4,0.45,0.08,0.57,0.25,0.6,0.35,0,1.0,0.95,0.85],[4,0.4,0.47,0.85,0.72,1.5,0.2,0,0.55,0.75,1.0]],"cast":[["prach",0.0,0.1,0.6,0.9,20]]}},"/assets/osoby/kelos-costigan.webp":{"s":"osoba","m":"/assets/zive/osoby/kelos-costigan.png","k":{"kam":[0.38,0.15,0.08,36],"ef":[[2,0.5,0.0,1.0,0.25,0.006,0.0,0.005,0,0,0],[3,0.68,0.22,1.0,0.45,0.004,0,0,0,0,0],[4,0.14,0.64,0.24,0.72,1.2,0.25,0,0.55,0.75,1.0]],"cast":[["lode",0.48,0.12,1.05,0.18,7,0.8,0],["lode",1.05,0.3,0.5,0.25,5,0.7,1]]}},"/assets/osoby/ki-jotal.webp":{"s":"osoba","m":"/assets/zive/osoby/ki-jotal.png","k":{"kam":[0.38,0.15,0.08,34],"ef":[[2,0.5,0.0,0.92,0.42,0.005,0.0,0.005,0,0,0],[4,0.35,0.8,0.95,1.0,1.2,0.25,0,0.55,0.75,1.0]],"cast":[["lode",0.48,0.3,0.95,0.2,5,0.8,0],["prach",0.35,0.75,0.95,1,15]]}},"/assets/osoby/kofi-bafeuma.webp":{"s":"osoba","m":"/assets/zive/osoby/kofi-bafeuma.png","k":{"kam":[0.28,0.25,0.08,34],"ef":[[1,0.62,0.0,1.02,0.52,0.25,0,0,0,0,0],[4,0.66,0.05,0.98,0.5,0.7,0.25,0,1.0,0.75,0.4],[4,0.0,0.05,0.12,0.3,2.0,0.2,0,1.0,0.75,0.4]],"cast":[["prach",0.3,0.1,1,0.8,25]]}},"/assets/osoby/laylani-addison.webp":{"s":"osoba","m":"/assets/zive/osoby/laylani-addison.png","k":{"kam":[0.35,0.15,0.07,34],"ef":[[4,0.55,0.0,1.0,0.5,0.7,0.2,0,0.55,0.75,1.0],[4,0.82,0.35,0.95,0.5,2.0,0.25,0,1.0,0.75,0.4],[6,0.62,0.05,0.98,0.45,0.35,0,0,0.55,0.75,1.0]],"cast":[["prach",0.5,0.3,1,0.9,20]]}},"/assets/osoby/lii-se-kre.webp":{"s":"osoba","m":"/assets/zive/osoby/lii-se-kre.png","k":{"kam":[0.17,0.15,0.07,34],"ef":[[4,0.38,0.32,1.0,0.48,0.6,0.25,0,0.55,0.75,1.0],[2,0.4,0.42,1.0,0.9,0.004,0.0,0.004,0,0,0]],"cast":[["lode",0.3,0.25,1.05,0.35,10,0.8,1],["lode",1.05,0.1,0.45,0.05,6,0.6,1]]}},"/assets/osoby/linton-messer-xi.webp":{"s":"osoba","m":"/assets/zive/osoby/linton-messer-xi.png","k":{"kam":[0.55,0.15,0.07,34],"ef":[[4,0.0,0.55,0.5,0.65,1.5,0.2,0,1.0,0.75,0.4],[3,0.0,0.8,1.0,1.0,0.003,0,0,0,0,0]],"cast":[["lode",0.0,0.15,0.5,0.1,4,0.6,1],["prach",0.4,0.1,1,0.9,20]]}},"/assets/osoby/livia-messer-iii.webp":{"s":"osoba","m":"/assets/zive/osoby/livia-messer-iii.png","k":{"kam":[0.47,0.2,0.07,34],"ef":[[4,0.0,0.0,0.42,0.75,0.9,0.2,0,0.55,0.75,1.0],[2,0.65,0.0,0.95,0.45,0.004,0.0,0.004,0,0,0]],"cast":[["lode",0.7,0.32,0.92,0.3,3,0.6,0],["prach",0.4,0.0,1,0.8,15]]}},"/assets/osoby/magnus-tobin.webp":{"s":"osoba","m":"/assets/zive/osoby/magnus-tobin.png","k":{"kam":[0.42,0.15,0.07,34],"ef":[[4,0.47,0.13,0.61,0.31,1.3,0.35,0,0.55,0.75,1.0],[2,0.62,0.0,1.0,0.25,0.004,0.0,0.003,0,0,0]],"cast":[["lode",0.68,0.1,1.05,0.15,4,0.7,1],["prach",0.0,0.0,1,0.8,25]]}},"/assets/osoby/marshall-leon.webp":{"s":"osoba","m":"/assets/zive/osoby/marshall-leon.png","k":{"kam":[0.35,0.2,0.07,34],"ef":[[4,0.84,0.52,0.98,0.74,1.6,0.45,0,0.7,0.85,1.0],[4,0.0,0.1,0.14,0.6,0.4,0.12,0,1.0,0.95,0.85]],"cast":[["prach",0.4,0.0,1,0.9,35]]}},"/assets/osoby/michelle-saleno.webp":{"s":"osoba","m":"/assets/zive/osoby/michelle-saleno.png","k":{"kam":[0.3,0.12,0.08,34],"ef":[[4,0.86,0.2,1.0,0.4,0.5,0.4,0,1.0,0.75,0.4],[2,0.62,0.0,1.0,0.3,0.006,0.0,0.004,0,0,0],[3,0.0,0.66,1.0,1.0,0.005,0,0,0,0,0]],"cast":[["prach",0.3,0.2,1,0.9,25],["lode",0.65,0.12,1.05,0.2,2,0.7,0]]}},"/assets/osoby/ne-se-ruoth.webp":{"s":"osoba","m":"/assets/zive/osoby/ne-se-ruoth.png","k":{"kam":[0.4,0.15,0.08,34],"ef":[[2,0.55,0.0,1.0,0.42,0.004,0.001,0.006,0,0,0],[4,0.48,0.5,0.72,0.62,0.5,0.4,0,1.0,0.75,0.4]],"cast":[["prach",0.3,0.5,1,0.95,30]]}},"/assets/osoby/neal-socolovich.webp":{"s":"osoba","m":"/assets/zive/osoby/neal-socolovich.png","k":{"kam":[0.38,0.15,0.07,34],"ef":[[4,0.85,0.32,1.0,0.52,0.5,0.45,0,1.0,0.75,0.4],[7,0.68,0.4,1.0,0.72,0.003,0,0,0,0,0],[5,0.35,0.05,0.95,0.8,0.15,0.4,0,0,0,0],[4,0.0,0.32,0.07,0.48,3.0,0.3,0,1.0,0.75,0.4]],"cast":[["prach",0.35,0.05,0.95,0.8,40]]}},"/assets/osoby/nick-croshaw.webp":{"s":"osoba","m":"/assets/zive/osoby/nick-croshaw.png","k":{"kam":[0.25,0.2,0.08,34],"ef":[[1,0.66,0.0,1.04,0.62,0.4,0,0,0,0,0],[2,0.24,0.1,0.5,0.52,0.004,0.0,0.004,0,0,0],[4,0.55,0.7,1.0,1.0,2.0,0.2,0,1.0,0.75,0.4]],"cast":[["prach",0.0,0.0,0.6,1,15]]}},"/assets/osoby/paul-barlow.webp":{"s":"osoba","m":"/assets/zive/osoby/paul-barlow.png","k":{"kam":[0.35,0.2,0.08,32],"ef":[[2,0.55,0.0,1.0,0.55,0.003,-0.008,0.01,0,0,0],[3,0.55,0.74,1.0,1.0,0.005,0,0,0,0,0],[4,0.1,0.06,0.17,0.2,3.0,0.3,0,1.0,0.75,0.4]],"cast":[["popel",60],["jiskry",0.82,0.5],["jiskry",0.7,0.62]]}},"/assets/osoby/scott-childress.webp":{"s":"osoba","m":"/assets/zive/osoby/scott-childress.png","k":{"kam":[0.3,0.15,0.07,34],"ef":[[4,0.52,0.12,0.84,0.58,1.2,0.35,0,1.0,0.75,0.4],[3,0.3,0.76,1.0,1.0,0.004,0,0,0,0,0],[2,0.0,0.2,0.15,0.75,0.004,0.0,0.003,0,0,0]],"cast":[["jiskry",0.68,0.35],["prach",0.3,0.1,1,0.8,25]]}},"/assets/osoby/seang-se-rua.webp":{"s":"osoba","m":"/assets/zive/osoby/seang-se-rua.png","k":{"kam":[0.48,0.15,0.07,34],"ef":[[4,0.0,0.28,0.18,0.5,0.5,0.45,0,1.0,0.75,0.4],[5,0.0,0.0,0.7,0.7,0.2,0.4,0,0,0,0],[3,0.0,0.65,1.0,1.0,0.005,0,0,0,0,0]],"cast":[["prach",0.0,0.1,0.7,0.8,40]]}},"/assets/osoby/selma-tontil.webp":{"s":"osoba","m":"/assets/zive/osoby/selma-tontil.png","k":{"kam":[0.45,0.18,0.07,34],"ef":[[4,0.0,0.25,0.1,0.4,2.0,0.25,0,1.0,0.75,0.4],[3,0.65,0.32,1.0,0.5,0.003,0,0,0,0,0]],"cast":[["lode",0.65,0.12,1.05,0.05,3,0.9,0],["lode",1.05,0.3,0.66,0.32,3,0.5,0]]}},"/assets/osoby/suj-kossi.webp":{"s":"osoba","m":"/assets/zive/osoby/suj-kossi.png","k":{"kam":[0.35,0.15,0.07,34],"ef":[[5,0.5,0.0,1.0,0.58,0.25,0.4,0,0,0,0]],"cast":[["prach",0.45,0.0,1,0.7,45]]}},"/assets/osoby/sylvie-randall.webp":{"s":"osoba","m":"/assets/zive/osoby/sylvie-randall.png","k":{"kam":[0.38,0.25,0.07,32],"ef":[[4,0.08,0.02,0.19,0.14,1.6,0.9,1,1.0,0.15,0.1],[4,0.14,0.22,0.22,0.32,1.6,0.7,1,1.0,0.15,0.1],[2,0.63,0.18,0.88,0.7,0.004,0.0,0.004,0,0,0]],"cast":[["lode",0.6,0.3,1.05,0.55,8,0.7,1]]}},"/assets/osoby/terrence-akari.webp":{"s":"osoba","m":"/assets/zive/osoby/terrence-akari.png","k":{"kam":[0.3,0.2,0.08,34],"ef":[[4,0.76,0.12,0.88,0.28,0.6,0.5,0,1.0,0.95,0.85],[2,0.38,0.0,0.85,0.45,0.004,0.001,0.006,0,0,0],[4,0.5,0.55,1.0,0.75,2.0,0.15,0,1.0,0.75,0.4]],"cast":[["lode",0.4,0.4,1.05,0.32,2,0.6,1]]}},"/assets/osoby/theresa-branaugh.webp":{"s":"osoba","m":"/assets/zive/osoby/theresa-branaugh.png","k":{"kam":[0.38,0.25,0.08,34],"ef":[[4,0.24,0.34,0.31,0.43,2.0,0.4,0,1.0,0.95,0.85],[4,0.0,0.0,0.2,0.8,0.8,0.15,0,1.0,0.75,0.4],[2,0.45,0.0,1.0,0.3,0.004,0.0,0.004,0,0,0],[7,0.55,0.4,1.0,0.62,0.0025,0,0,0,0,0]],"cast":[["prach",0.4,0.3,1,0.95,30]]}},"/assets/osoby/toshi-aaron.webp":{"s":"osoba","m":"/assets/zive/osoby/toshi-aaron.png","k":{"kam":[0.4,0.3,0.08,32],"ef":[[1,0.72,0.0,0.88,0.26,0.6,0,0,0,0,0],[6,0.6,0.45,0.82,0.8,0.9,0,0,0.4,1.0,0.7],[4,0.4,0.55,1.0,1.0,2.5,0.15,0,1.0,0.75,0.4]],"cast":[["lode",0.95,0.18,0.7,0.3,6,1.3,0]]}},"/assets/osoby/tueng-se-kre.webp":{"s":"osoba","m":"/assets/zive/osoby/tueng-se-kre.png","k":{"kam":[0.35,0.12,0.07,34],"ef":[[4,0.74,0.34,0.9,0.5,0.5,0.4,0,1.0,0.75,0.4],[2,0.55,0.0,1.0,0.4,0.005,0.0,0.005,0,0,0],[3,0.55,0.74,1.0,1.0,0.004,0,0,0,0,0]],"cast":[["lode",0.55,0.25,1.05,0.2,6,0.7,0]]}},"/assets/osoby/ulysses-messer-x.webp":{"s":"osoba","m":"/assets/zive/osoby/ulysses-messer-x.png","k":{"kam":[0.27,0.2,0.07,34],"ef":[[2,0.45,0.0,1.0,0.25,0.004,0.0,0.004,0,0,0],[4,0.04,0.37,0.17,0.5,1.4,0.3,0,0.55,0.75,1.0],[4,0.58,0.12,1.0,0.55,1.1,0.12,0,0.55,0.75,1.0]],"cast":[["lode",0.35,0.12,1.05,0.08,6,0.7,1],["lode",1.05,0.45,0.45,0.5,4,0.6,1],["prach",0.4,0.1,1,0.9,25]]}},"/assets/osoby/vernon-tar.webp":{"s":"osoba","m":"/assets/zive/osoby/vernon-tar.png","k":{"kam":[0.3,0.25,0.08,34],"ef":[[4,0.76,0.12,0.88,0.28,0.6,0.5,0,1.0,0.95,0.85],[2,0.42,0.0,1.0,0.45,0.004,0.001,0.006,0,0,0],[4,0.3,0.6,0.75,0.85,2.2,0.2,0,1.0,0.75,0.4]],"cast":[["lode",0.45,0.1,1.05,0.2,3,0.6,1]]}},"/assets/osoby/yaha-se-xyo.webp":{"s":"osoba","m":"/assets/zive/osoby/yaha-se-xyo.png","k":{"kam":[0.35,0.25,0.07,34],"ef":[[4,0.47,0.13,0.61,0.42,1.2,0.3,0,1.0,0.75,0.4],[2,0.82,0.35,1.0,0.62,0.002,0.0,0.004,0,0,0],[5,0.6,0.0,1.0,0.7,0.15,0.4,0,0,0,0]],"cast":[["bubliny",0.49,0.22,0.59,0.38,12,1.2],["prach",0.3,0.0,1,0.8,25]]}}};

diff --git a/nastroje/zive_osoby.py b/nastroje/zive_osoby.py
@@ -69,11 +69,11 @@ OSOBY = {
         ('zar', (.0, .2, .05, .32), 3.0, .3, TEPLA, 0)],
         cast=[('prach', .5, .1, 1, .9, 30)]),
     'antoine-lebec': dict(kam=[.33, .3, .08, 34], ef=[
-        ('vir', (.0, .05, .22, .45), .4),
+        ('vir', (-.05, .05, .19, .42), .4),
         ('zar', (.82, .13, .9, .24), .6, .45, TEPLA, 0)],
         cast=[('prach', .4, .1, 1, .7, 15)]),
     'adelaide-lorris': dict(kam=[.3, .25, .08, 32], ef=[
-        ('radar', (.63, .42, .9, .8), .5, MODRA),
+        ('radar', (.665, .47, .83, .73), .5, MODRA),
         ('zar', (.8, .13, .9, .27), .6, .45, BILA, 0),
         ('zar', (.0, .1, .06, .2), 1.4, .8, CERVENA, 1)],
         cast=[]),
@@ -273,7 +273,7 @@ def prevod(k):
 CHRAN = {
     'ulysses-messer-x': [(0, 0, .45, 1)],
     'galor-messer-ix': [(0, 0, .68, 1)],
-    'antoine-lebec': [(.15, .1, .6, 1), (.2, 0, .26, .5)],
+    'antoine-lebec': [(.165, 0, .62, 1), (0, 0, .26, .065), [(.035, .32), (.2, .32), (.2, .62), (.035, .62)], (0, .43, .06, 1)],
     'magnus-tobin': [(0, 0, .62, 1)],
     'theresa-branaugh': [(.2, .05, .6, 1), (.74, .42, 1, .63)],
     'abeni-okon': [(0, .1, .45, 1), (.75, .02, .8, .2)],
